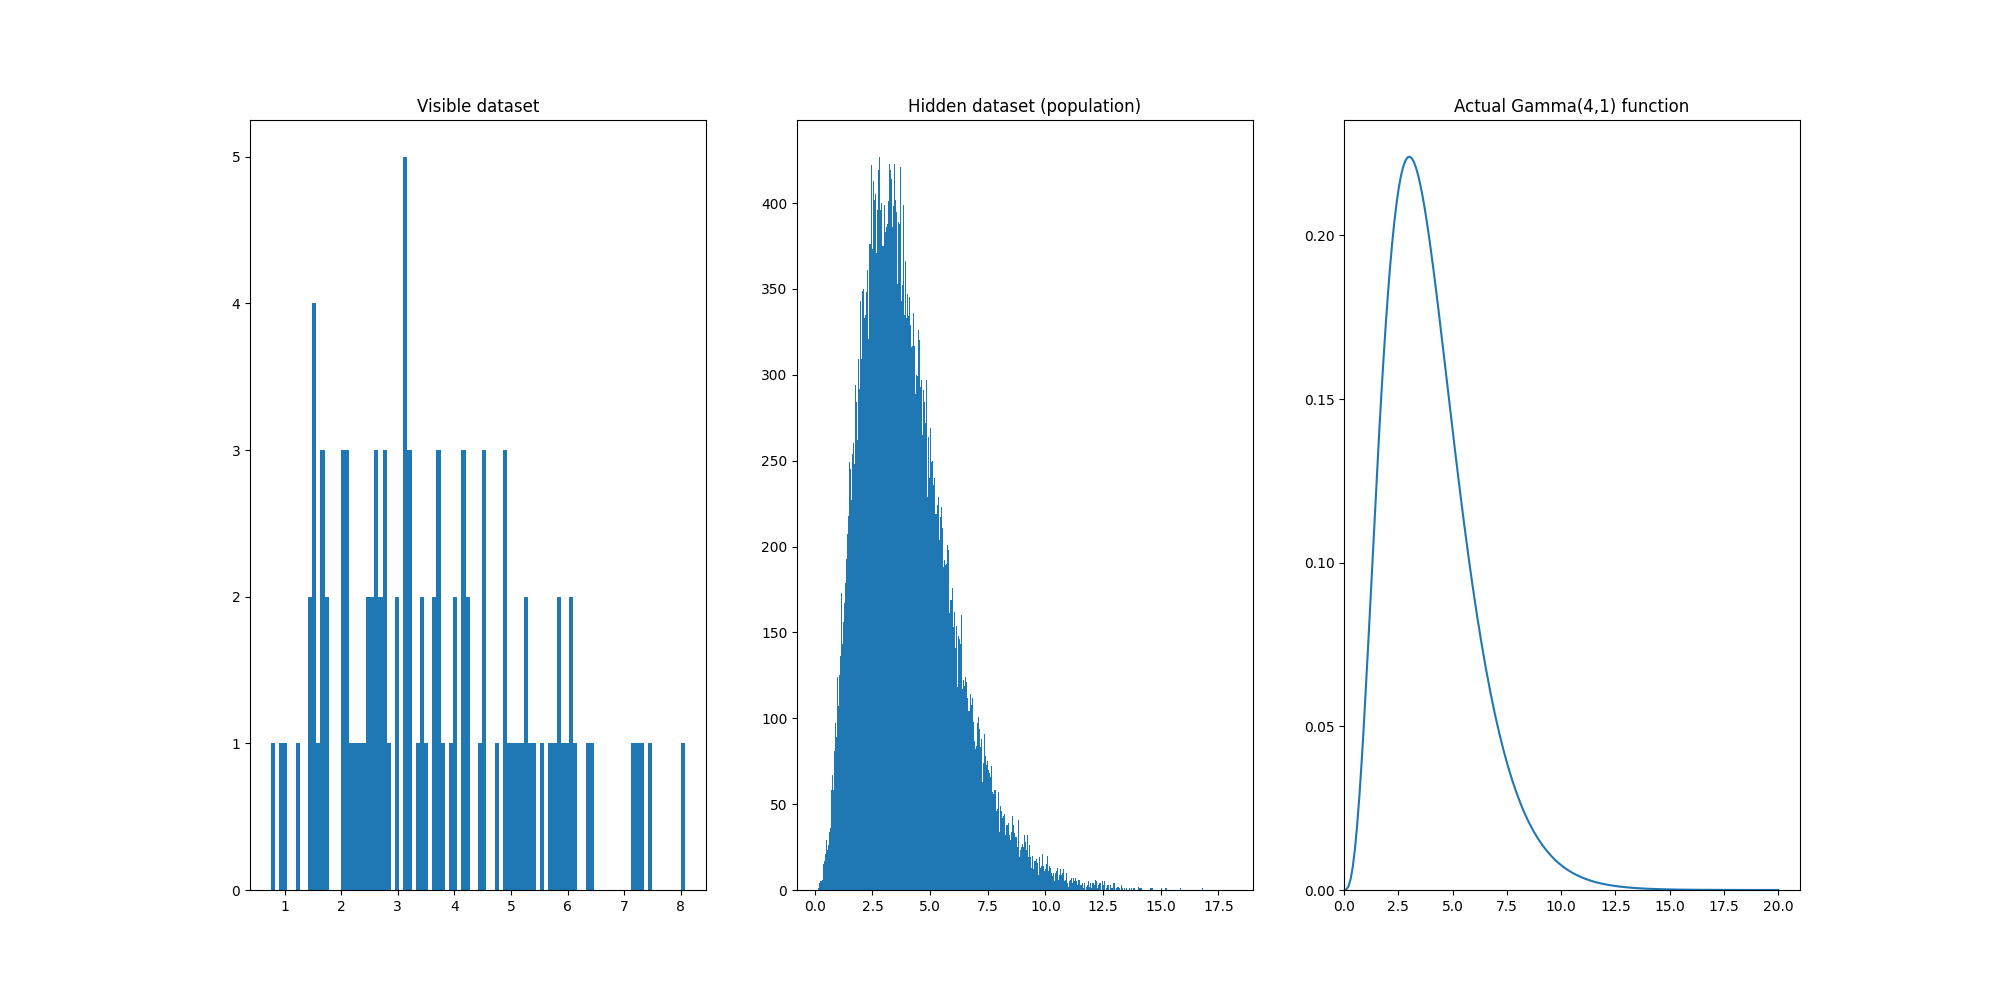
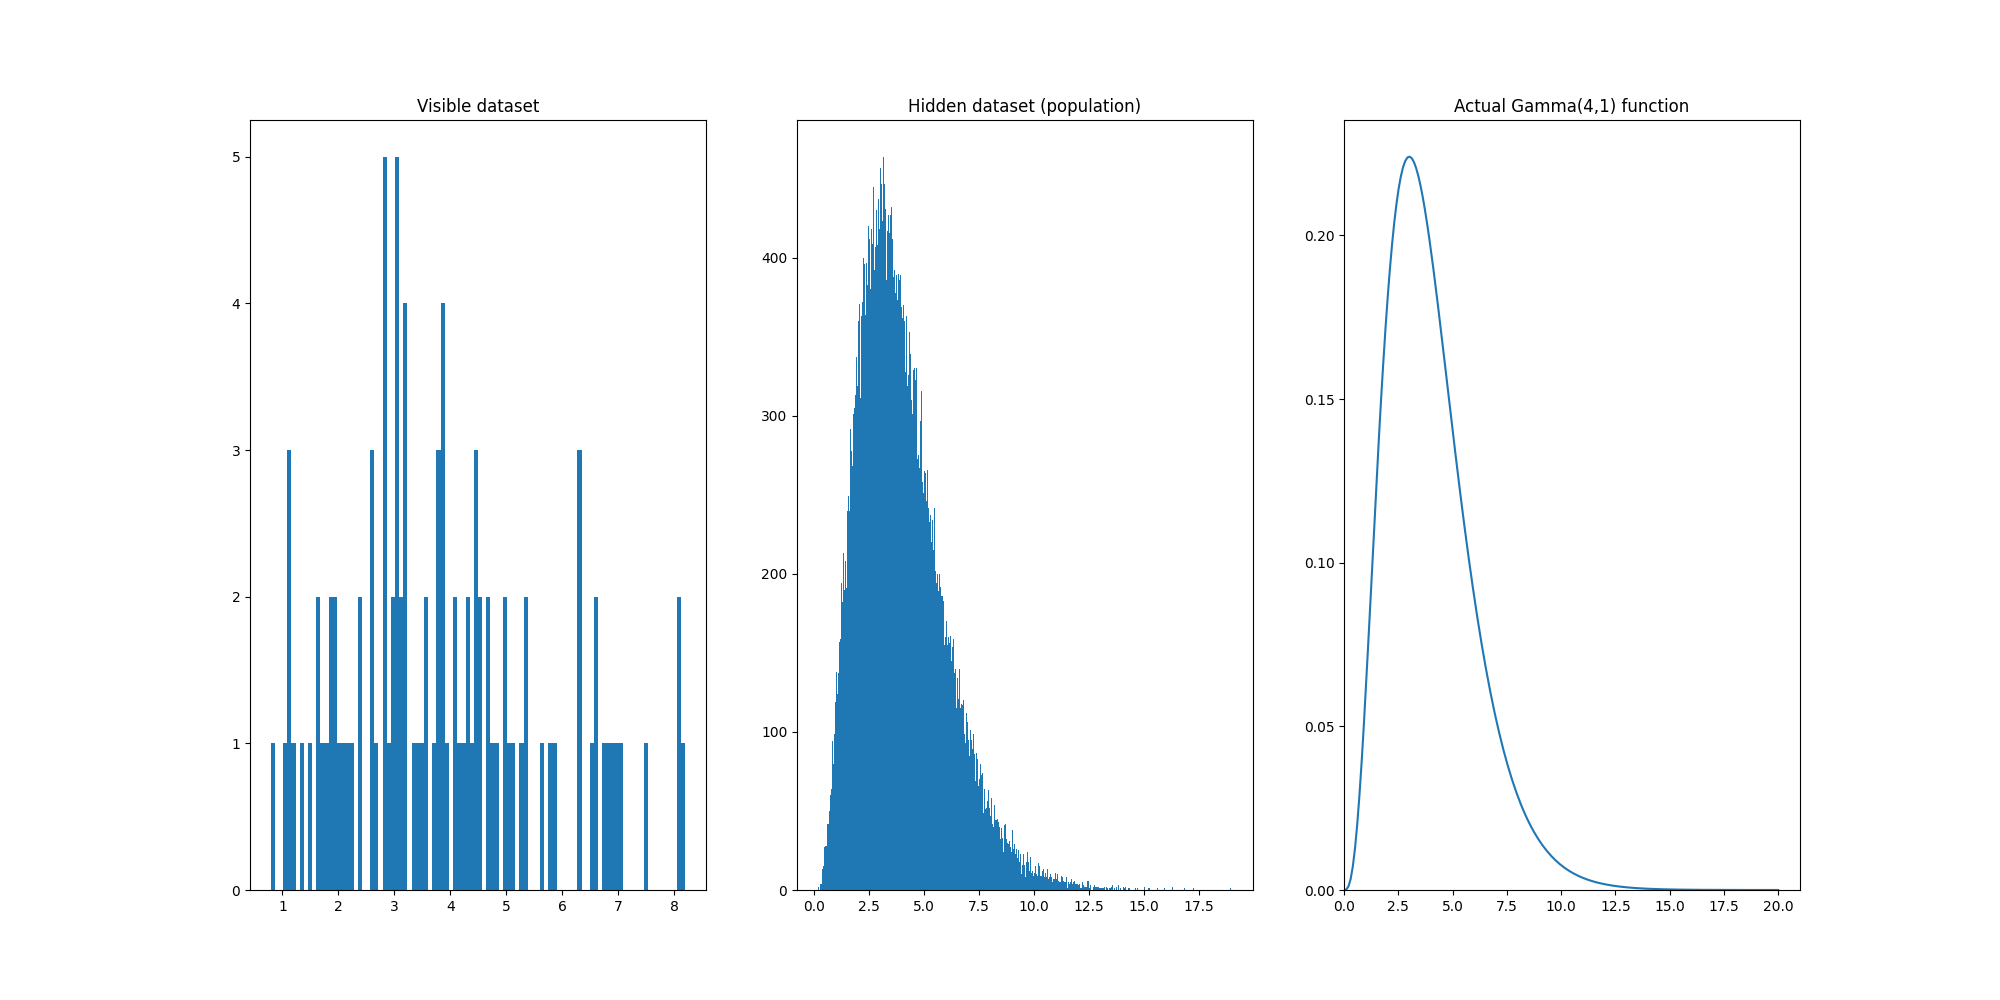
I think I am done?

diff --git a/Assignment3/problem3.py b/Assignment3/problem3.py
@@ -1,0 +1,50 @@
+#!/usr/bin/python3
+
+
+import numpy as np
+import random
+import matplotlib.pyplot as plt
+import scipy.stats as stats
+from problem12 import bootstrap,jacknife
+
+# the following contents are modified from https://stackoverflow.com/a/47762586 and my answer from problem12.py
+def parta():
+    distributions = [
+        {"type": np.random.normal, "kwargs": {"loc": 1, "scale": 2}},
+        {"type": np.random.normal, "kwargs": {"loc": 4, "scale": 1}},
+    ]
+    coefficients = np.array([0.3, 0.7])
+    # coefficients /= coefficients.sum()      # in case these did not add up to 1
+    num_distr = len(distributions)
+    sample_size = 100
+    data = np.zeros((sample_size, num_distr))
+    # data for invisible distributions
+    invisible_size = 10000
+    datainvis = np.zeros((invisible_size, num_distr))
+    for idx, distr in enumerate(distributions):
+        data[:, idx] = distr["type"](size=(sample_size,), **distr["kwargs"])
+        datainvis[:, idx] = distr["type"](size=(invisible_size,), **distr["kwargs"])
+    random_idx = np.random.choice(np.arange(num_distr), size=(sample_size,), p=coefficients)
+    random_idx_invis = np.random.choice(np.arange(num_distr), size=(invisible_size,), p=coefficients)
+    sample = data[np.arange(sample_size), random_idx]
+    invisible = datainvis[np.arange(invisible_size), random_idx_invis]
+    fig,axs=plt.subplots(nrows=1,ncols=3,figsize=(20,10)) 
+    axs[0].hist(sample, bins=sample_size)
+    axs[1].hist(invisible, bins=300)
+    x = np.linspace(-10,10,num=1000)
+    axs[2].plot(x, 0.3*stats.norm.pdf(x,loc=1,scale=2)+0.7*stats.norm.pdf(x,loc=4,scale=1))
+    axs[2].set_ylim(bottom=0)
+    axs[0].set_title("Visible dataset")
+    axs[1].set_title("Hidden dataset (population)")
+    axs[2].set_title("Actual mixture normal distribution")
+    plt.savefig("problem3.png")
+    return sample
+
+
+if __name__=="__main__":
+    random.seed(a=None)
+    samdata=parta()
+    print("______________________Using Bootstrap sampling___________________________")
+    bootstrap(samdata,100,200)
+    print("______________________Using Jackknife sampling___________________________")
+    jacknife(samdata,100)

diff --git a/Assignment3/problem12.py b/Assignment3/problem12.py
@@ -50,9 +50,31 @@ def partb(n):
     print("The average ratio of mean over median is ",np.average(ratio))
     print("The standard error of mean over median is ",np.std(ratio,ddof=1))    
 
+# jacknife methods which takes in the sample distribution and produce n jackknife samples
+def jacknife(inputdata,n):
+    ratio=np.zeros(n)
+    for i in range(0,n):
+        data=np.delete(inputdata,random.randrange(0,100))
+        median=np.median(data)
+        mean=np.average(data)
+        ratio[i]=mean/median
+    print("The average ratio of mean over median is ",np.average(ratio))
+    print("The standard error of mean over median is ",np.sqrt((np.var(ratio))*(n-1)))  
+
+
 if __name__=="__main__":
+    random.seed(a=None)
     samdata=parta()
+    print("======================Problem 1======================")
     print("______________________Using Bootstrap sampling___________________________")
     bootstrap(samdata,100,200)
+    print("______________________________________________________________________________________")
     print("______________________Using Invisible distribution sampling___________________________")
     partb(100)
+    print("======================Problem 2======================")
+    print("______________________Using Jackknife sampling___________________________")
+    jacknife(samdata,100)
+    print("______________________________________________________________________________________")
+    print("______________________Using Invisible distribution sampling___________________________")
+    partb(100)
+    
